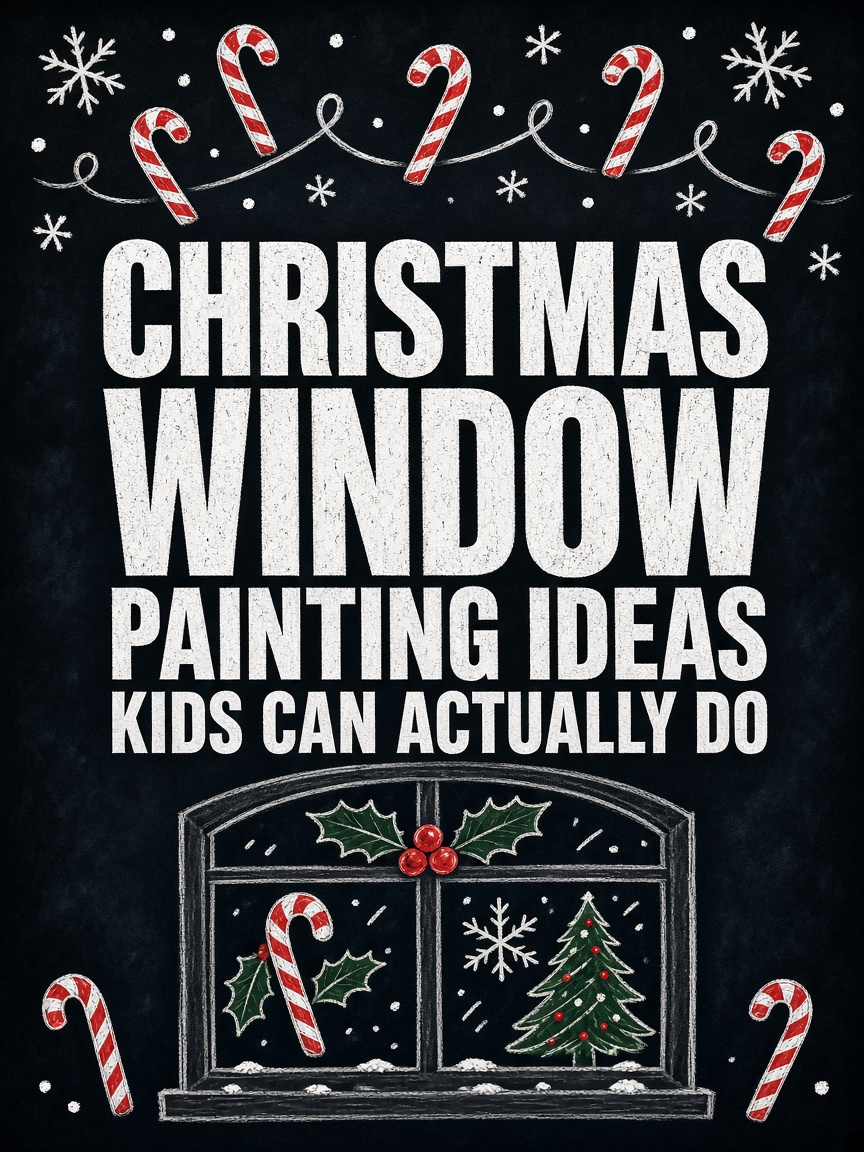
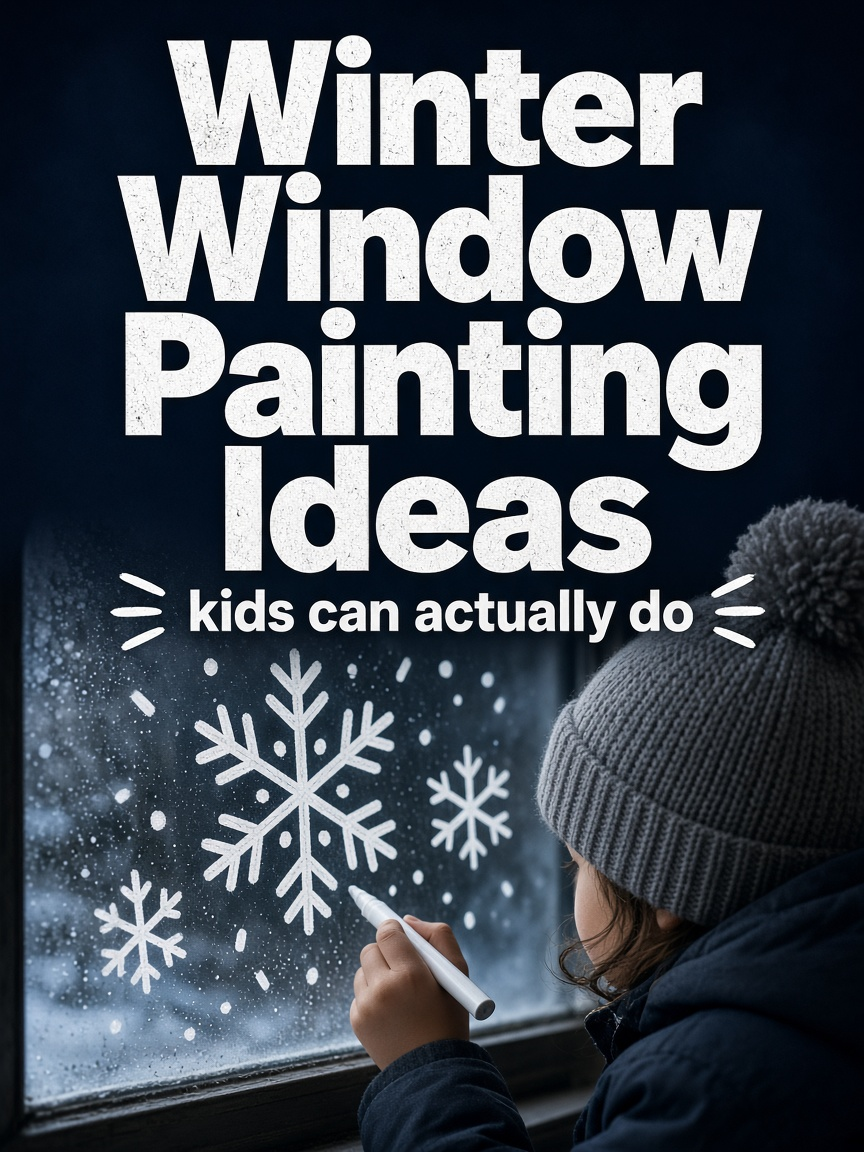
Keep marketing copy Islamically permissible.
Reframe seasonal reviews and pins as winter/family DIY, remove festival celebration language, and add a standing content rule.

diff --git a/src/content/reviews/chalktastic-liquid-chalk-markers-window-painting-review-b00w3obu3c.md b/src/content/reviews/chalktastic-liquid-chalk-markers-window-painting-review-b00w3obu3c.md
@@ -1,31 +1,31 @@
 ---
-title: "Chalktastic Liquid Chalk Markers Review: Christmas Window Painting Without Permanent Mess"
-description: "Review of Chalktastic washable liquid chalk markers for holiday window painting, kids DIY, glass signs, and erasable Christmas decor."
+title: "Chalktastic Liquid Chalk Markers Review: Winter Window Art Without Permanent Mess"
+description: "Review of Chalktastic washable liquid chalk markers for winter window painting, kids DIY, glass signs, and erasable seasonal decor."
 asin: "B00W3OBU3C"
 brand: "Chalktastic"
 category: "Home"
 affiliateUrl: "https://www.amazon.com/dp/B00W3OBU3C?tag=dailyvirald06-20"
 imageSrc: "/images/reviews/b00w3obu3c/window-snowflake.jpg"
-imageCaption: "Holiday snowflake doodles on a window with washable liquid chalk markers."
-images: [{"src":"/images/reviews/b00w3obu3c/window-snowflake.jpg","caption":"Holiday snowflake doodles on a window with washable liquid chalk markers.","alt":"Holiday snowflake doodles on a window with washable liquid chalk markers."},{"src":"/images/reviews/b00w3obu3c/easy-kids.jpg","caption":"Kids painting simple Christmas window designs with chalk pens.","alt":"Kids painting simple Christmas window designs with chalk pens."},{"src":"/images/reviews/b00w3obu3c/gift-set.jpg","caption":"Chalktastic liquid chalk marker set gift-ready for holiday DIY.","alt":"Chalktastic liquid chalk marker set gift-ready for holiday DIY."}]
-hook: "Easy Christmas window painting without permanent mess."
-hookSupport: "Chalktastic’s set of 8 washable liquid chalk markers lets you decorate windows, glass, and boards with bold color, then wipe it clean with a damp cloth when the season ends."
-whyHelps: ["Skip permanent paint and dusty chalk sticks—concentrated liquid chalk ink is made for non-porous surfaces like glass.","Reversible bullet and chisel tips cover fine snowflake lines and thicker holiday lettering in one pen.","Washable, non-toxic, and odorless markers wipe away so festive DIY stays temporary.","An 8-color set is gift-ready for families who want Christmas window painting ideas without a craft-room rebuild."]
+imageCaption: "Snowflake doodles on a window with washable liquid chalk markers."
+images: [{"src":"/images/reviews/b00w3obu3c/window-snowflake.jpg","caption":"Snowflake doodles on a window with washable liquid chalk markers.","alt":"Snowflake doodles on a window with washable liquid chalk markers."},{"src":"/images/reviews/b00w3obu3c/easy-kids.jpg","caption":"Kids painting simple winter window designs with chalk pens.","alt":"Kids painting simple winter window designs with chalk pens."},{"src":"/images/reviews/b00w3obu3c/gift-set.jpg","caption":"Chalktastic liquid chalk marker set gift-ready for family DIY.","alt":"Chalktastic liquid chalk marker set gift-ready for family DIY."}]
+hook: "Easy winter window art without permanent mess."
+hookSupport: "Chalktastic’s set of 8 washable liquid chalk markers lets you decorate windows, glass, and boards with bold color, then wipe it clean with a damp cloth when you are done."
+whyHelps: ["Skip permanent paint and dusty chalk sticks—concentrated liquid chalk ink is made for non-porous surfaces like glass.","Reversible bullet and chisel tips cover fine snowflake lines and thicker lettering in one pen.","Washable, non-toxic, and odorless markers wipe away so family DIY stays temporary.","An 8-color set is gift-ready for families who want winter window painting ideas without a craft-room rebuild."]
 angle: "convenience"
 ctaLabel: "Check Price on Amazon"
-features: ["Ideal for decorating any window, bistro board, or sign—these erasable chalkboard markers also work on glass, ceramic, whiteboards, and more.","Colored chalk power without the dusty mess—high-quality concentrated ink for non-porous surfaces.","Reversible bullet and chisel tip so you can switch between fine lines and broader strokes.","Washable, non-toxic, and odorless—wipe away with a damp cloth for a smear-free clean.","Great for festive DIY crafts and holiday window decorating, and a practical Christmas gift for artists and families."]
+features: ["Ideal for decorating any window, bistro board, or sign—these erasable chalkboard markers also work on glass, ceramic, whiteboards, and more.","Colored chalk power without the dusty mess—high-quality concentrated ink for non-porous surfaces.","Reversible bullet and chisel tip so you can switch between fine lines and broader strokes.","Washable, non-toxic, and odorless—wipe away with a damp cloth for a smear-free clean.","Practical for family DIY crafts, seasonal window decorating, and gift-ready creative kits."]
 pubDate: 2026-11-17
 createdAt: "2026-11-17T14:57:00+08:00"
 ---
 
 ## Quick Verdict
 
-Chalktastic liquid chalk markers are a practical tool for Christmas window painting when you want bold color without committing to permanent paint. The 8-pen set targets glass, boards, and other non-porous surfaces, with washable ink and reversible tips for fine lines or broader strokes. It will not replace professional window vinyl or a full craft studio, but for seasonal DIY and kid-friendly holiday doodles, erasable chalk pens are the convenience play that matches how people actually decorate at home.
+Chalktastic liquid chalk markers are a practical tool for winter window art when you want bold color without committing to permanent paint. The 8-pen set targets glass, boards, and other non-porous surfaces, with washable ink and reversible tips for fine lines or broader strokes. It will not replace professional window vinyl or a full craft studio, but for seasonal DIY and kid-friendly doodles, erasable chalk pens are the convenience play that matches how families actually decorate at home.
 
 ## Key Features
 
 ### Built for windows and glass
-These markers are positioned for windows, bistro boards, signs, ceramic, whiteboards, and similar non-porous surfaces. That makes them a fit for holiday window painting ideas—snowflakes, candy canes, greetings—without treating the glass like a permanent mural.
+These markers are positioned for windows, bistro boards, signs, ceramic, whiteboards, and similar non-porous surfaces. That makes them a fit for temporary glass art—snowflakes, simple patterns, greetings—without treating the glass like a permanent mural.
 
 ### Liquid chalk without the dusty mess
 Instead of crumbly stick chalk, the set uses concentrated liquid chalk ink for colored chalk impact with less dust. On smooth glass, that usually means cleaner lines and less cleanup mid-project.
@@ -33,20 +33,20 @@ Instead of crumbly stick chalk, the set uses concentrated liquid chalk ink for c
 ### Reversible bullet and chisel tips
 Each pen can switch between a finer tip and a broader chisel edge. That helps when one snowflake needs thin detail and the next greeting needs thicker strokes without grabbing a second marker type.
 
-### Wipe-clean when the season ends
-Washable, non-toxic, and odorless ink is meant to come off with a damp cloth. For Christmas window painting, that temporary finish is the point: decorate for December, then reset the glass in January.
+### Wipe-clean when you are done
+Washable, non-toxic, and odorless ink is meant to come off with a damp cloth. For temporary window art, that finish is the point: decorate for a season or a craft night, then reset the glass.
 
 ## Who It's For
 
-This set fits families and DIY shoppers hunting Christmas window painting ideas, kids crafts, and temporary holiday signs. It is especially useful if you want festive glass decor without permanent paint or landlord-unfriendly mess. It is less ideal if you need outdoor weatherproof lettering that must survive rain for weeks, or if you only decorate porous chalkboards that prefer traditional stick chalk.
+This set fits families and DIY shoppers hunting winter window painting ideas, kids crafts, and temporary signs. It is especially useful if you want glass decor without permanent paint or landlord-unfriendly mess. It is less ideal if you need outdoor weatherproof lettering that must survive rain for weeks, or if you only decorate porous chalkboards that prefer traditional stick chalk.
 
 ## Pros
 
-- Eight washable colors ready for holiday window and glass projects.
+- Eight washable colors ready for window and glass projects.
 - Reversible tips cover detail work and broader lettering.
-- Erasable finish supports seasonal DIY without permanent commitment.
+- Erasable finish supports temporary DIY without permanent commitment.
 - Non-toxic, odorless positioning for family craft tables.
-- Gift-friendly for artists, teachers, and holiday hosts.
+- Gift-friendly for artists, teachers, and households that like creative kits.
 
 ## Things to Consider
 
@@ -57,18 +57,18 @@ This set fits families and DIY shoppers hunting Christmas window painting ideas,
 
 ## FAQ
 
-### Can I use these for Christmas window painting with kids?
+### Can I use these for winter window painting with kids?
 Yes. Simple shapes and bold colors work well for kid-friendly window doodles, and the washable claim is the main reason parents prefer chalk markers over permanent paint.
 
-### Will it wipe off glass after the holidays?
-The listing describes washable ink that wipes away with a damp cloth on suitable non-porous surfaces. Clean soon after the season so residue does not sit for months.
+### Will it wipe off glass afterward?
+The listing describes washable ink that wipes away with a damp cloth on suitable non-porous surfaces. Clean soon after you finish so residue does not sit for months.
 
 ### Are the tips interchangeable styles?
 Each marker has a reversible bullet and chisel tip so you can switch between finer lines and broader strokes.
 
 ### Is this only for chalkboards?
-No. Windows, glass, ceramic, whiteboards, and similar non-porous surfaces are part of the intended use, which is why holiday window decorating is a strong seasonal angle.
+No. Windows, glass, ceramic, whiteboards, and similar non-porous surfaces are part of the intended use, which is why temporary window decorating is a strong practical angle.
 
 ## Final Verdict
 
-If you want easy Christmas window painting without permanent mess, Chalktastic’s washable liquid chalk marker set is a clear convenience pick for glass DIY and family crafts. Check today’s price on Amazon and see whether an 8-color erasable set fits the holiday window ideas you already have in mind.
+If you want easy winter window art without permanent mess, Chalktastic’s washable liquid chalk marker set is a clear convenience pick for glass DIY and family crafts. Check today’s price on Amazon and see whether an 8-color erasable set fits the window ideas you already have in mind.

diff --git a/src/content/reviews/maykito-winter-cookie-cutters-set-review-b07xwzm6bv.md b/src/content/reviews/maykito-winter-cookie-cutters-set-review-b07xwzm6bv.md
@@ -1,0 +1,77 @@
+---
+title: "Maykito Cookie Cutters Review: Winter Baking Tools That Actually Shape the Dough"
+description: "Review of the Maykito 12-piece stainless steel winter cookie cutter set for easy family cookies, decorating, and gift baking."
+asin: "B07XWZM6BV"
+brand: "Maykito"
+category: "Kitchen"
+affiliateUrl: "https://www.amazon.com/dp/B07XWZM6BV?tag=dailyvirald06-20"
+imageSrc: "/images/reviews/b07xwzm6bv/tree-cutter.jpg"
+imageCaption: "Stainless tree cookie cutter pressing into rolled dough."
+images: [{"src":"/images/reviews/b07xwzm6bv/tree-cutter.jpg","caption":"Stainless tree cookie cutter pressing into rolled dough.","alt":"Stainless tree cookie cutter pressing into rolled dough."},{"src":"/images/reviews/b07xwzm6bv/decorated-batch.jpg","caption":"Decorated sugar cookies from classic winter cutter shapes.","alt":"Decorated sugar cookies from classic winter cutter shapes."},{"src":"/images/reviews/b07xwzm6bv/gift-box.jpg","caption":"Maykito cookie cutter set gift-boxed for family baking.","alt":"Maykito cookie cutter set gift-boxed for family baking."}]
+hook: "Easy winter cookies start with the right cutters."
+hookSupport: "Maykito’s 12-piece stainless cookie cutter set covers familiar winter shapes so you can cut, bake, and decorate without hunting for one-off molds."
+whyHelps: ["Twelve seasonal shapes—tree, snowflake, star, gingerbread, house, and more—cover a full cookie tray from one boxed set.","Stainless steel holds shape better than flimsy plastic cutters when you press through chilled dough.","Gift-ready packaging makes the set easy to store or wrap for a family baking night.","Use beyond cookies for fondant, soft fruit, sandwiches, cheese, or craft clay when the season is over."]
+angle: "convenience"
+ctaLabel: "Check Price on Amazon"
+features: ["Twelve-piece stainless cookie cutter set with winter shapes such as tree, snowflake, star, house, snowman, gingerbread, reindeer, candy cane, and glove designs.","Made of premium stainless steel—strong, shape-holding, and rust resistant with proper care.","Care tip: hand wash and wipe dry after each use to help prevent rust and maximize life.","Gift-ready boxed packaging for convenient storage and family gifting.","Use for cookie dough, fondant, soft fruits, bread, sandwiches, cheese, or craft clay; also works as a pancake mold."]
+pubDate: 2026-11-17
+createdAt: "2026-11-17T14:57:00+08:00"
+---
+
+## Quick Verdict
+
+The Maykito cookie cutter set is a tool-first answer to winter baking demand: twelve stainless shapes that make easy cookies more about cutting and decorating than hunting for molds. It will not teach icing technique or replace a full bakeware kit, but for shoppers who need reliable cutters, a boxed stainless set is the practical purchase that turns dough into recognizable seasonal shapes.
+
+## Key Features
+
+### Twelve winter-friendly shapes
+The set covers familiar seasonal outlines such as tree, snowflake, star, house, snowman, gingerbread, reindeer, candy cane, and glove designs. That range covers most family cookie decorating boards without buying shapes one at a time.
+
+### Stainless steel that holds the outline
+Premium stainless construction is meant to stay firm when you press through rolled dough. Shape-holding cutters matter more than novelty plastic when you want clean edges for icing and sprinkles.
+
+### Care that keeps the set usable next year
+Hand wash and wipe dry after each use to help prevent rust and extend life. Seasonal tools often sit damp in a drawer; drying after wash is the habit that keeps stainless cutters ready for the next bake.
+
+### Gift-ready box for storage or gifting
+Boxed packaging doubles as storage and a simple gift for bakers. If you are assembling a cookie-night kit, the cutters are the durable piece that outlasts a single bag of sprinkles.
+
+### More than sugar cookies
+Beyond cookie dough, the listing supports fondant, soft fruits, bread, sandwiches, cheese, craft clay, and pancake molds. That stretch use keeps the set useful after winter.
+
+## Who It's For
+
+This set fits home bakers and gift shoppers who want decorated cookies at home without bakery equipment. It is especially useful if you already have dough and icing plans but lack a full seasonal shape lineup. It is less ideal if you need deep 3D molds, very large commercial cutters, or dishwasher-only care with zero hand drying.
+
+## Pros
+
+- Twelve recognizable winter shapes in one set.
+- Stainless steel focused on strength and outline clarity.
+- Gift-boxed for storage and family giving.
+- Works for dough plus fondant, sandwiches, and light craft uses.
+- Matches tool-led baking content that sells cutters, not complicated recipes alone.
+
+## Things to Consider
+
+- Hand wash and dry recommended; leaving wet cutters can invite rust over time.
+- Dough chill and thickness still affect how cleanly shapes release.
+- Decorating skill and icing consistency determine the final look more than the cutter alone.
+- Confirm size expectations if you need oversized bakery-display cookies.
+
+## FAQ
+
+### How many shapes are included?
+Twelve winter-oriented shapes in one boxed stainless set, including tree, snowflake, star, house, snowman, gingerbread, and similar seasonal designs.
+
+### Can beginners decorate cookies with this set?
+Yes. Clean cutter outlines make decorating easier even without bakery skills—simple icing and sprinkles still read clearly on the tray.
+
+### Is it only for cookie dough?
+No. The set can also cut fondant, soft fruits, bread, sandwiches, cheese, craft clay, and work as a pancake mold.
+
+### Does it need special care?
+Hand wash and wipe dry after use to help prevent rust and keep the stainless cutters ready for the next bake.
+
+## Final Verdict
+
+If easy winter cookies start with the right cutters, Maykito’s 12-piece stainless set is a straightforward kitchen tool for family baking and gifting. Check today’s price on Amazon and see whether the boxed shape lineup covers the cookie tray you want to decorate.

diff --git a/src/content/reviews/godonlif-candle-warmer-lamp-review-b0ctjgjl2t.md b/src/content/reviews/godonlif-candle-warmer-lamp-review-b0ctjgjl2t.md
@@ -13,7 +13,7 @@ hookSupport: "This electric warmer melts wax safely from the top down, meaning z
 whyHelps: ["Enjoy your favorite jar candles with fewer steps and zero open flame worries.","The built-in timer lets you set your melt cycle and walk away with total peace of mind.","Easily adjust the lamp height to fit different jar sizes without any fuss.","Dimmable controls let you customize the melting speed and ambiance effortlessly."]
 angle: "convenience"
 ctaLabel: "Check Price on Amazon"
-features: ["Safety and Environmental Friendliness: Our electric Candle Warmer Lamp gently melting the candle from the top down. With no open flame, it eliminates concerns of flame, smoke, soot, and pollution. Ideal for homes with children and pets.","Fully Dimmable and 24-Hour Cycle Timing Function: Enjoy complete control over the ambiance with our dimmable knob, offering unrestricted dimming for personalized melting speeds. Convenient timer function for uninterrupted sweet dreams.","Sleek Design, Versatile Usage: Combining classical elegance with modern aesthetics, our lamp features a metal base and glass lampshade. Perfect for living rooms, bedrooms, studies, offices, and yoga rooms.","Height-Adjustable: Adapt to various jar candle sizes with its adjustable pole, ensuring a perfect fit for any decor.","Gifts Idea: A strong gift pick for Mother's Day, Thanksgiving, Christmas, New Year, housewarming, birthdays, bridal showers, and teacher appreciation.","The All-in-One Gift & Decor Centerpiece: Creates a warm, inviting atmosphere and doubles as subtle bedroom or living-room decor."]
+features: ["Safety and Environmental Friendliness: Our electric Candle Warmer Lamp gently melting the candle from the top down. With no open flame, it eliminates concerns of flame, smoke, soot, and pollution. Ideal for homes with children and pets.","Fully Dimmable and 24-Hour Cycle Timing Function: Enjoy complete control over the ambiance with our dimmable knob, offering unrestricted dimming for personalized melting speeds. Convenient timer function for uninterrupted sweet dreams.","Sleek Design, Versatile Usage: Combining classical elegance with modern aesthetics, our lamp features a metal base and glass lampshade. Perfect for living rooms, bedrooms, studies, offices, and yoga rooms.","Height-Adjustable: Adapt to various jar candle sizes with its adjustable pole, ensuring a perfect fit for any decor.","Gifts Idea: A strong gift pick for Mother's Day, New Year, housewarming, birthdays, family gatherings, and teacher appreciation.","The All-in-One Gift & Decor Centerpiece: Creates a warm, inviting atmosphere and doubles as subtle bedroom or living-room decor."]
 pubDate: 2026-11-11
 createdAt: 2026-11-11T22:32:00+08:00
 ---
@@ -34,7 +34,7 @@ The GODONLIF Candle Warmer Lamp stands out for its thoughtful design and practic
 
 ## Who It's For
 
-This candle warmer lamp suits anyone who frequently burns jar candles but wants a safer, cleaner everyday experience. It is an ideal choice for parents and pet owners who want to eliminate open flames, smoke, and soot from their living spaces. It also makes a strong gift pick for occasions like Mother's Day, Thanksgiving, Christmas, housewarmings, birthdays, and teacher appreciation.
+This candle warmer lamp suits anyone who frequently burns jar candles but wants a safer, cleaner everyday experience. It is an ideal choice for parents and pet owners who want to eliminate open flames, smoke, and soot from their living spaces. It also makes a strong gift pick for occasions like Mother's Day, housewarmings, birthdays, family gatherings, and teacher appreciation.
 
 ## Pros
 

diff --git a/src/content/reviews/mackenzie-childs-electric-kettle-review-b0f56n9j2r.md b/src/content/reviews/mackenzie-childs-electric-kettle-review-b0f56n9j2r.md
@@ -13,7 +13,7 @@ hookSupport: "This electric stainless-steel kettle gives you a fast way to heat 
 whyHelps: ["It delivers a fast way to heat water for your morning coffee or afternoon tea without the hassle of a stovetop.","The 8-cup capacity handles tea parties and office breaks with fewer refills.","Fewer steps are needed to upgrade your kitchen decor accessories since it doubles as a striking countertop display piece."]
 angle: "convenience"
 ctaLabel: "Check Price on Amazon"
-features: ["FANCY ELECTRIC TEA KETTLE: Our iconic hot water kettle is boiling and bubbling over with style. This colorful electric kettle is a functional and fun addition to your modern kitchen and a fast way to heat water for tea or coffee.","CUTE KITCHEN ESSENTIAL: The Cherry Check electric stainless-steel kettle features a vibrant red-and-white checkered pattern with color-dragged accents that mimic brushstrokes. It has an 8-cup capacity that is perfect for tea parties and office breaks.","KITCHEN DECOR ACCESSORIES: At MacKenzie-Childs, we make everyday items extraordinary. From the countertop to the table, you can enjoy the magic of MacKenzie-Childs anywhere. Check out our tea kettle for stovetop use, stainless-steel water kettle, and more.","THE PERFECT GIFT: A MacKenzie-Childs piece is much more than a gift—it’s the beginning of a lifelong collection. Our decorative tea kettle makes an amazing Christmas, wedding, or housewarming gift. Welcome to the MacKenzie-Childs family!","MACKENZIE-CHILDS: MacKenzie-Childs was born of our love of home and our commitment to fresh, innovative design. Each piece holds the surprise and joy of the unexpected."]
+features: ["FANCY ELECTRIC TEA KETTLE: Our iconic hot water kettle is boiling and bubbling over with style. This colorful electric kettle is a functional and fun addition to your modern kitchen and a fast way to heat water for tea or coffee.","CUTE KITCHEN ESSENTIAL: The Cherry Check electric stainless-steel kettle features a vibrant red-and-white checkered pattern with color-dragged accents that mimic brushstrokes. It has an 8-cup capacity that is perfect for tea parties and office breaks.","KITCHEN DECOR ACCESSORIES: At MacKenzie-Childs, we make everyday items extraordinary. From the countertop to the table, you can enjoy the magic of MacKenzie-Childs anywhere. Check out our tea kettle for stovetop use, stainless-steel water kettle, and more.","THE PERFECT GIFT: A MacKenzie-Childs piece is much more than a gift—it’s the beginning of a lifelong collection. Our decorative tea kettle makes an amazing wedding, housewarming, or family gift. Welcome to the MacKenzie-Childs family!","MACKENZIE-CHILDS: MacKenzie-Childs was born of our love of home and our commitment to fresh, innovative design. Each piece holds the surprise and joy of the unexpected."]
 pubDate: 2026-11-11
 createdAt: 2026-11-11T21:28:30+08:00
 ---
@@ -39,7 +39,7 @@ This electric tea kettle is designed for homeowners, collectors, and design enth
 - Generous 8-cup capacity reduces the need for multiple boils during gatherings.
 - Features a charming red-and-white Cherry Check pattern with unique color-dragged brushstroke details.
 - Doubles as a conversation starter on your countertop or dining table.
-- Makes an exceptional gift for weddings, Christmas, and housewarmings.
+- Makes an exceptional gift for weddings, housewarmings, and family occasions.
 
 ## Things to Consider
 

diff --git a/src/content/reviews/baimei-icyme-gua-sha-jade-roller-set-review-b08rd6s5hf.md b/src/content/reviews/baimei-icyme-gua-sha-jade-roller-set-review-b08rd6s5hf.md
@@ -13,7 +13,7 @@ hookSupport: "Chill the BAIMEI jade roller and gua sha, then glide with serum fo
 whyHelps: ["Simplify your daily skincare routine with easy-to-use tools that require fewer steps to get a refreshed look.","Chill or freeze the tools for quick, natural cooling relief from morning puffiness without extra hassle.","Glide the smooth roller effortlessly with your favorite serum to support better product absorption quickly.","Enjoy a relaxing facial massage at home without needing complicated techniques or expensive spa visits."]
 angle: "convenience"
 ctaLabel: "Check Price on Amazon"
-features: ["COOLING PUFFINESS RELIEF & EASY TO USE: Chill or freeze jade roller & gua sha beauty tools accessories to help reduce puffiness and tension. Naturally cool jade leaving skin refreshed. Easy for beginners and daily use","JAWLINE SCULPTING & FACIAL MASSAGE: Gua sha skin care tools helps define and shape the jawline with gentle upward pressure. Firms skin, improves fine lines, and lifts for a smoother, dewy, and refreshed appearance","PREMIUM NATURAL JADE & STABLE DESIGN: Made of natural jade with reinforced frame for stable use, not easy to loosen. Built for long term use. Smooth edges allow better control and comfortable massage","SMOOTH QUIET ROLLING & SKINCARE ROUTINE: Polished jade roller glides smoothly without noise. Use this lymphatic drainage massager with serum or facial oil to reduce pulling and support better absorption in your daily skincare routine","GIFT READY & SKIN FRIENDLY: Comes in an elegant box, ideal for birthdays, holidays. Gentle on all skin types, this guasha face massager tool for face is an ideal birthday christmas gifts for women to add a relaxing tool to any skincare routine"]
+features: ["COOLING PUFFINESS RELIEF & EASY TO USE: Chill or freeze jade roller & gua sha beauty tools accessories to help reduce puffiness and tension. Naturally cool jade leaving skin refreshed. Easy for beginners and daily use","JAWLINE SCULPTING & FACIAL MASSAGE: Gua sha skin care tools helps define and shape the jawline with gentle upward pressure. Firms skin, improves fine lines, and lifts for a smoother, dewy, and refreshed appearance","PREMIUM NATURAL JADE & STABLE DESIGN: Made of natural jade with reinforced frame for stable use, not easy to loosen. Built for long term use. Smooth edges allow better control and comfortable massage","SMOOTH QUIET ROLLING & SKINCARE ROUTINE: Polished jade roller glides smoothly without noise. Use this lymphatic drainage massager with serum or facial oil to reduce pulling and support better absorption in your daily skincare routine","GIFT READY & SKIN FRIENDLY: Comes in an elegant box, ideal for birthdays, holidays. Gentle on all skin types, this guasha face massager tool for face is an ideal birthday and family gifts for women to add a relaxing tool to any skincare routine"]
 pubDate: 2026-11-17
 createdAt: "2026-11-17T08:35:00+08:00"
 ---
